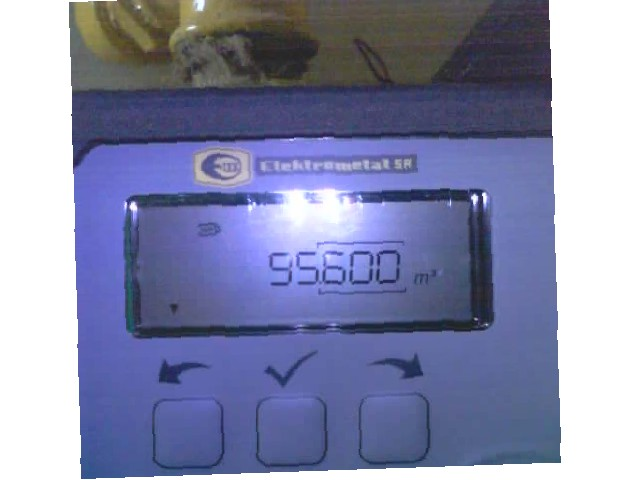
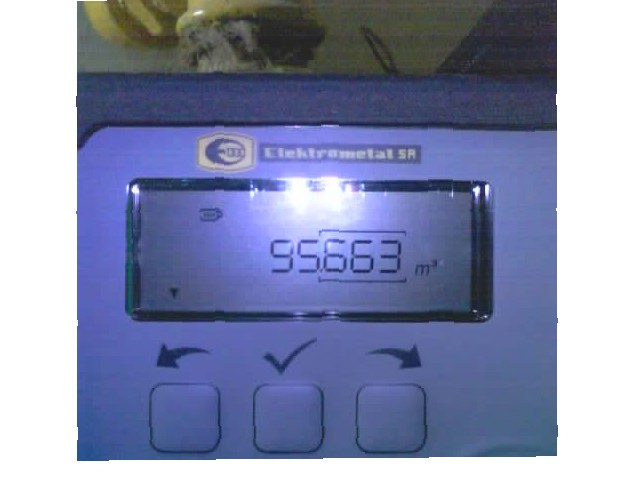
Automatyczna aktualizacja strony i danych

Changed region(s): [[0.0938, 0.0, 0.875, 1.0], [0.8438, 0.4375, 0.875, 0.4688]]

diff --git a/index.html b/index.html
@@ -35,11 +35,11 @@
 <body>
     <div class="container">
         <h1>Bieżący Stan Licznika</h1>
-        <div class="status">Ostatnia aktualizacja danych:<br><span class="timestamp">2026-10-27 06:59:01</span></div>
+        <div class="status">Ostatnia aktualizacja danych:<br><span class="timestamp">2026-10-27 07:04:28</span></div>
         <div class="odczyt">93498 m³</div>
         <div class="uwaga">Ostatni odczyt się nie powiódł, wyświetlana jest poprzednia poprawna wartość.</div>
         <h3>Aktualne zdjęcie z gazomierza:</h3>
-        <img src="img_tmp/alg.jpg?t=1793080741" alt="Zdjęcie licznika">
+        <img src="img_tmp/alg.jpg?t=1793081068" alt="Zdjęcie licznika">
     </div>
 </body>
 </html>
